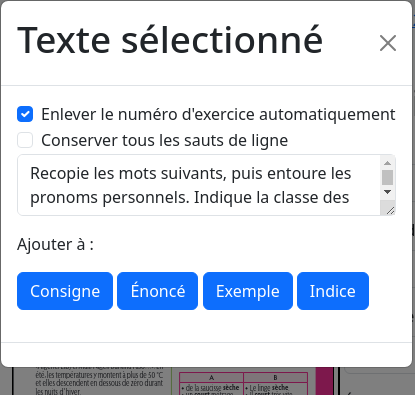
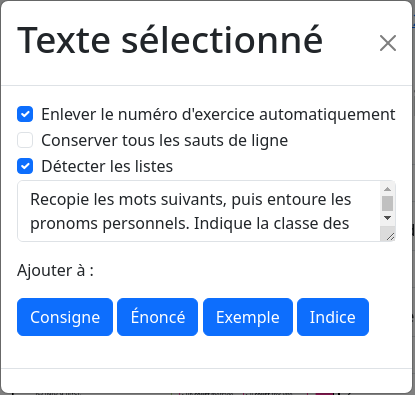
Add option to disable detection of lists (#1)

diff --git a/frontend/src/frontend/views/project/textbook/page/TextPicker.vue b/frontend/src/frontend/views/project/textbook/page/TextPicker.vue
@@ -91,6 +91,7 @@ const listFormats = [
 export interface SelectedText {
   withoutLineEnds: string
   withAllLineEnds: string
+  withoutListsDetection: string
 }
 
 function textFromItems(items: TextItem[]): SelectedText {
@@ -147,12 +148,50 @@ function textFromItems(items: TextItem[]): SelectedText {
     }
   }
 
-  const withAllLineEnds = lines.map(textFromLine).join('\n')
-
   if (lines[0].length === 0) {
-    // Empty
-    return {withoutLineEnds: '', withAllLineEnds: ''}
+    return {withoutLineEnds: '', withAllLineEnds: '', withoutListsDetection: ''}
   } else {
+    function lineLooksJustified(line: TextItem[]) {
+      return Math.abs(line[line.length - 1].right - right) < 0.02 * width
+    }
+
+    let withoutListsDetection = ''
+    if (lines.filter(lineLooksJustified).length >= lines.length / 2) {
+      // Justified text: shorter lines end with a line break
+      let text = ''
+      for (const line of lines) {
+        text += textFromLine(line)
+        if (lineLooksJustified(line)) {
+          text += ' '
+        } else {
+          text += '\n'
+        }
+      }
+      withoutListsDetection = text.trimEnd()
+    } else {
+      // General case: we add a line break if the spacing before this line is larger than the spacing before previous line
+      if (lines.length === 1) {
+        withoutListsDetection = textFromLine(lines[0])
+      } else {
+        console.assert(lines.length >= 2)
+
+        const lineSpacings = lines.slice(1).map((line, i) => lines[i][0].bottom - line[0].bottom)
+        lineSpacings.sort((a, b) => a - b)
+        const standardLineSpacing = lineSpacings[Math.floor(lineSpacings.length / 2)]
+
+        let text = textFromLine(lines[0]) + ' ' + textFromLine(lines[1])
+        for (let i = 2; i !== lines.length; ++i) {
+          if (lines[i - 1][0].bottom - lines[i][0].bottom >= 1.1 * standardLineSpacing) {
+            text += '\n'
+          } else {
+            text += ' '
+          }
+          text += textFromLine(lines[i])
+        }
+        withoutListsDetection = text
+      }
+    }
+
     const matchingListFormats = listFormats.filter(listFormat => {
       const format = listFormat()
       // A list format matches the text if the first line starts a new list item...
@@ -167,6 +206,7 @@ function textFromItems(items: TextItem[]): SelectedText {
       return false
     })
 
+    let withoutLineEnds = ''
     if (matchingListFormats.length >= 1) {
       // List: each list item ends with a line break
       console.assert(lines.length >= 2)
@@ -183,47 +223,17 @@ function textFromItems(items: TextItem[]): SelectedText {
         }
         text += textFromLine(line)
       }
-      return {withoutLineEnds: text.trimEnd(), withAllLineEnds}
+      withoutLineEnds = text.trimEnd()
     } else {
-      function lineLooksJustified(line: TextItem[]) {
-        return Math.abs(line[line.length - 1].right - right) < 0.02 * width
-      }
+      withoutLineEnds = withoutListsDetection
+    }
 
-      if (lines.filter(lineLooksJustified).length >= lines.length / 2) {
-        // Justified text: shorter lines end with a line break
-        let text = ''
-        for (const line of lines) {
-          text += textFromLine(line)
-          if (lineLooksJustified(line)) {
-            text += ' '
-          } else {
-            text += '\n'
-          }
-        }
-        return {withoutLineEnds: text.trimEnd(), withAllLineEnds}
-      } else {
-        // General case: we add a line break if the spacing before this line is larger than the spacing before previous line
-        if (lines.length === 1) {
-          return {withoutLineEnds: textFromLine(lines[0]), withAllLineEnds}
-        } else {
-          console.assert(lines.length >= 2)
+    const withAllLineEnds = lines.map(textFromLine).join('\n')
 
-          const lineSpacings = lines.slice(1).map((line, i) => lines[i][0].bottom - line[0].bottom)
-          lineSpacings.sort((a, b) => a - b)
-          const standardLineSpacing = lineSpacings[Math.floor(lineSpacings.length / 2)]
-
-          let text = textFromLine(lines[0]) + ' ' + textFromLine(lines[1])
-          for (let i = 2; i !== lines.length; ++i) {
-            if (lines[i - 1][0].bottom - lines[i][0].bottom >= 1.1 * standardLineSpacing) {
-              text += '\n'
-            } else {
-              text += ' '
-            }
-            text += textFromLine(lines[i])
-          }
-          return {withoutLineEnds: text, withAllLineEnds}
-        }
-      }
+    return {
+      withoutLineEnds,
+      withAllLineEnds,
+      withoutListsDetection,
     }
   }
 }

diff --git a/frontend/e2e-tests/text-extraction.cy.ts b/frontend/e2e-tests/text-extraction.cy.ts
@@ -120,11 +120,23 @@ describe('Gabby', () => {
   }
 
   {
-    const expectedItems = [
-      'Lorem ipsum dolor sit amet, consectetur adipiscing elit.',
-      'Vivamus a iaculis nisl, a tempus urna.',
-      'Curabitur fermentum egestas risus, nec fringilla sapien efficitur quis.',
+    const itemsInPdf = [
+      [
+        'Lorem ipsum dolor sit amet,',
+        'consectetur adipiscing elit.',
+      ],
+      [
+        'Vivamus a iaculis nisl, a',
+        'tempus urna.',
+      ],
+      [
+        'Curabitur fermentum egestas',
+        'risus, nec fringilla sapien',
+        'efficitur quis.',
+      ],
     ]
+
+    const expectedItems = itemsInPdf.map(lines => lines.join(' '))
 
     it('inserts correct line ends on list - a. b. c.', () => {
       visit('/project-xkopqm/textbook-klxufv/page-2/new-exercise', {pdf: 'text-extraction'})
@@ -163,6 +175,27 @@ describe('Gabby', () => {
       cy.get('@wording').find('p').should('have.length', expectedItems.length).each(($el, index) => {
         expect($el.text()).to.equal(['1', '2', '3'][index] + ') ' + expectedItems[index])
       })
+    })
+
+    it('disables lists detection', () => {
+      visit('/project-xkopqm/textbook-klxufv/page-2/new-exercise', {pdf: 'text-extraction'})
+      setupAliases()
+
+      traceRectangle('@canvas', 7, 6, 36, 19)
+
+      cy.get('textarea').should('have.value', expectedItems.map((item, index) => ['a', 'b', 'c'][index] + '. ' + item).join('\n'))
+
+      cy.get('div:contains("Detect lists") >input').should('be.enabled').should('be.checked').uncheck()
+      cy.get('textarea').should('have.value', expectedItems.map((item, index) => ['a', 'b', 'c'][index] + '. ' + item).join(' '))
+
+      cy.get('div:contains("Detect lists") >input').should('be.enabled').should('not.be.checked').check()
+      cy.get('textarea').should('have.value', expectedItems.map((item, index) => ['a', 'b', 'c'][index] + '. ' + item).join('\n'))
+
+      cy.get('div:contains("Keep all line ends") >input').should('be.enabled').should('not.be.checked').check()
+      cy.get('div:contains("Detect lists") >input').should('be.disabled')
+
+      cy.get('div:contains("Keep all line ends") >input').should('be.enabled').should('be.checked').uncheck()
+      cy.get('div:contains("Detect lists") >input').should('be.enabled')
     })
   }
 })

diff --git a/frontend/src/frontend/views/project/textbook/page/TextSelectionModal.vue b/frontend/src/frontend/views/project/textbook/page/TextSelectionModal.vue
@@ -31,12 +31,15 @@ const selectedString = computed(() => {
   } else {
     if (doKeepAllLineEnds.value) {
       return selectedText.value.withAllLineEnds
+    } else if (!doDetectLists.value) {
+      return selectedText.value.withoutListsDetection
     } else {
       return selectedText.value.withoutLineEnds
     }
   }
 })
 const doKeepAllLineEnds = ref(false)
+const doDetectLists = ref(true)
 
 const canStripExerciceNumber = computed(() => model.value.number !== '' && selectedString.value.startsWith(model.value.number))
 const doStripExerciceNumber = ref(true)
@@ -105,6 +108,7 @@ defineExpose({
     <template #body>
       <BLabeledCheckbox :label="$t('doStripExerciceNumber')" v-model="doStripExerciceNumber" :disabled="!canStripExerciceNumber" />
       <BLabeledCheckbox :label="$t('doKeepAllLineEnds')" v-model="doKeepAllLineEnds" />
+      <BLabeledCheckbox :label="$t('doDetectLists')" v-model="doDetectLists" :disabled="doKeepAllLineEnds"/>
       <BLabeledTextarea ref="textarea" :maxRows="15" v-model="textToAdd" />
 
       <p>{{ $t('addTo') }}</p>

diff --git a/frontend/src/frontend/views/project/textbook/page/TextPicker.cy.ts b/frontend/src/frontend/views/project/textbook/page/TextPicker.cy.ts
@@ -717,6 +717,7 @@ describe('TextPicker', () => {
       {
         'withoutLineEnds': '3 Complète avec : le, une, un, des, tu, elles, ils. Puis, souligne les verbes.\nIl peut y avoir plusieurs solutions.\n… vide ◆ … vident ◆ … dépenses ◆ … dépensent ◆ … savon ◆ … savons ◆ … commande',
         'withAllLineEnds': '3 Complète avec : le, une, un, des, tu,\nelles, ils. Puis, souligne les verbes.\nIl peut y avoir plusieurs\nsolutions.\n… vide ◆ … vident ◆ … dépenses ◆ … dépensent ◆\n… savon ◆ … savons ◆ … commande',
+        'withoutListsDetection': '3 Complète avec : le, une, un, des, tu, elles, ils. Puis, souligne les verbes.\nIl peut y avoir plusieurs solutions.\n… vide ◆ … vident ◆ … dépenses ◆ … dépensent ◆ … savon ◆ … savons ◆ … commande',
       },
       {'clientX': 348, 'clientY': 163},
     )
